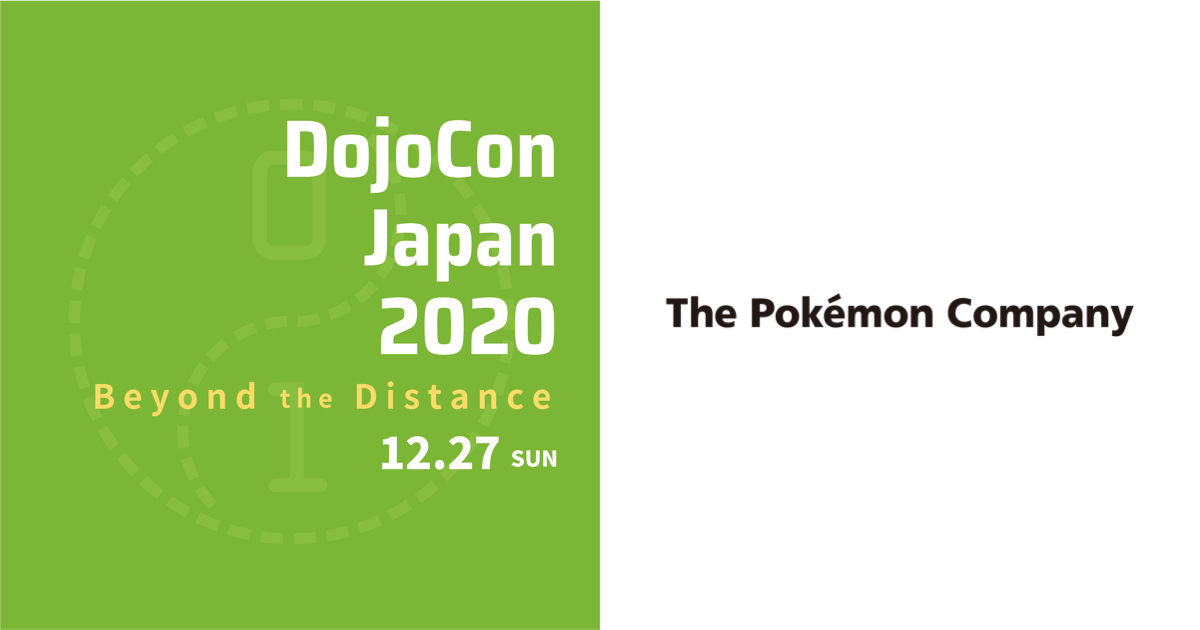
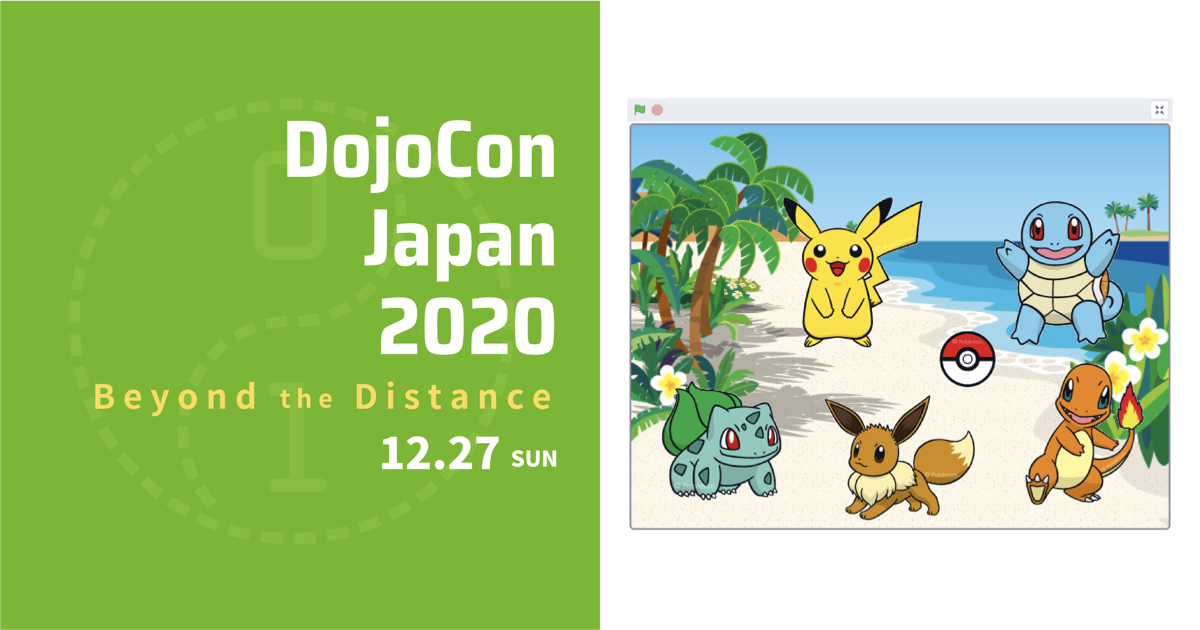
ポケモンニュース記事のサムネイルを変更

Changed region(s): [[0.5242, 0.1508, 0.9867, 0.8444]]

diff --git a/_posts/2020-12-19-pokemon.md b/_posts/2020-12-19-pokemon.md
@@ -2,7 +2,7 @@
 layout: post
 title:  "ポケモン × DojoCon Japan 特別ワークショップ開催決定！"
 categories: news
-thumbnail: ws-pokemon.png
+thumbnail: thumb-pokemon.jpeg
 permalink: /posts/9/
 ---
 
